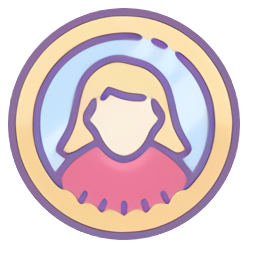
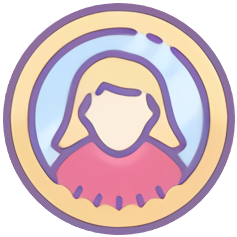
Update das imgs de perfil

diff --git a/src/components/Profile.jsx b/src/components/Profile.jsx
@@ -4,7 +4,7 @@ const Profile = () => {
     return (
         <div className={styles.container}>
             <div className={styles.pic}>
-                {true ? (
+                {false ? (
                     <img src="./img/masculino.png" />
                 ) : (
                     <img src="./img/feminino.png" />
